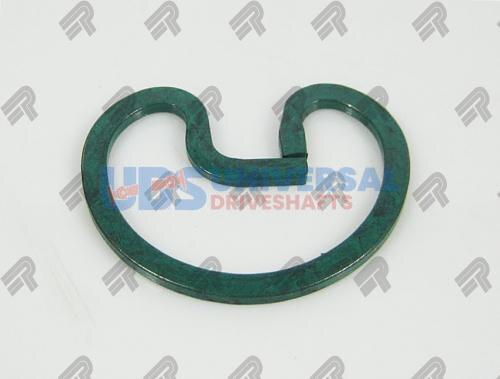
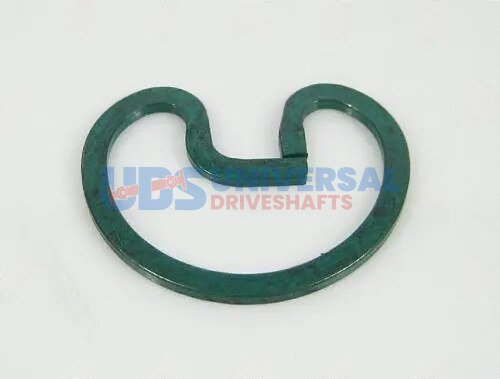
Remove the PTI watermark from 9 part photos the cleaner missed
pti:dewatermark only looked for PTI's logo grid on white backgrounds, so photos shot on PTI's grey backdrop (snap rings 3-7-49, 3-7-4, 2-7-449/459/469, 2707-156, 10033711) and on wood or a shop floor (91100A180, 5010279) kept it under our stamp. New options: --white=200 for grey backdrops, --force for busy ones. All 9 cleaned from their masters and re-stamped.

Claude-Session: https://claude.ai/code/session_012oXpwAgv6PQRtTWQnCRjx4

diff --git a/app/Console/Commands/PtiDewatermark.php b/app/Console/Commands/PtiDewatermark.php
@@ -24,7 +24,9 @@ class PtiDewatermark extends Command
     protected $signature = 'pti:dewatermark {--set=all : parts, shafts, all (= parts + shafts) or uploads (clean only)}
         {--only= : comma-separated file names (or dir/file) to process} {--limit=0 : stop after N photos written}
         {--dry-run : only score the photos} {--grey= : override the template grey} {--no-backup : do not keep PTI originals}
-        {--out= : review mode: write the results to this folder, nothing in public/ changes}';
+        {--out= : review mode: write the results to this folder, nothing in public/ changes}
+        {--white= : background level the mark is looked for on (default 247; ~200 for the grey-background shots)}
+        {--force : the photos carry the PTI mark even if it cannot be scored (wood, floor or other busy backgrounds)}';
     protected $description = "Replace PTI's watermark on PTI photos with the UDS logo in the middle (no AI, the part is not redrawn)";
 
     private const SETS = [
@@ -78,7 +80,7 @@ class PtiDewatermark extends Command
             $grey = $this->option('grey') !== null ? (float) $this->option('grey') : (float) ($cfg['grey'] ?? 40);
             [$M, $band] = $this->template("$base/$set.png", (float) ($cfg['scale'] ?? 1));
             $minScore = (float) ($cfg['min_score'] ?? 0.2);
-            $this->opt = ['white' => (int) ($cfg['white'] ?? 247), 'fit' => (bool) ($cfg['fit_strength'] ?? false), 'min_k' => (float) ($cfg['min_k'] ?? 0.02), 'polish' => (bool) ($cfg['polish'] ?? true)];
+            $this->opt = ['white' => (int) ($this->option('white') ?? $cfg['white'] ?? 247), 'fit' => (bool) ($cfg['fit_strength'] ?? false), 'min_k' => (float) ($cfg['min_k'] ?? 0.02), 'polish' => (bool) ($cfg['polish'] ?? true)];
             $brand = self::SETS[$set]['brand'];
 
             $files = glob(public_path(self::SETS[$set]['glob']), GLOB_BRACE) ?: [];
@@ -195,7 +197,7 @@ class PtiDewatermark extends Command
             $sdm += $d * $m; $smm += $m * $m; $sdd += $d * $d;
         }
         $score = $smm && $sdd ? $sdm / sqrt($smm * $sdd) : 0;
-        if ($score < $minScore) return ['no_mark', null, $score, 0];
+        if ($score < $minScore && !$this->option('force')) return ['no_mark', null, $score, 0];
         // photos whose background was lightened after stamping carry a faded copy of the mark: measure how much
         $k = $this->opt['fit'] ? ($smm ? $sdm / $smm : 0) : 1.0;
         if ($k < $this->opt['min_k']) return ['no_mark', null, $score, $k];
